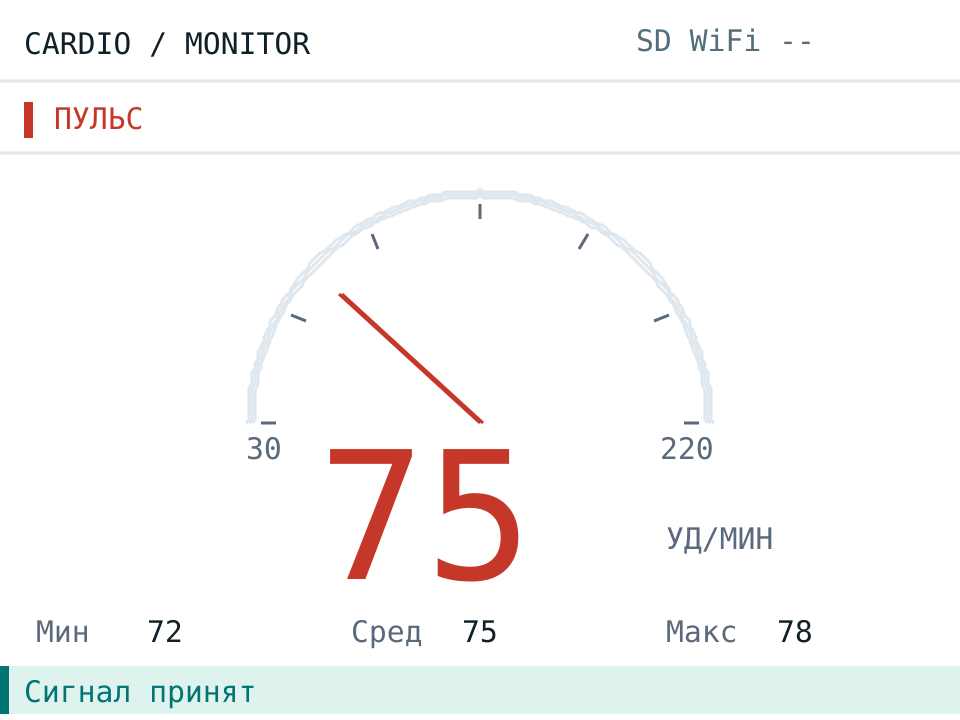
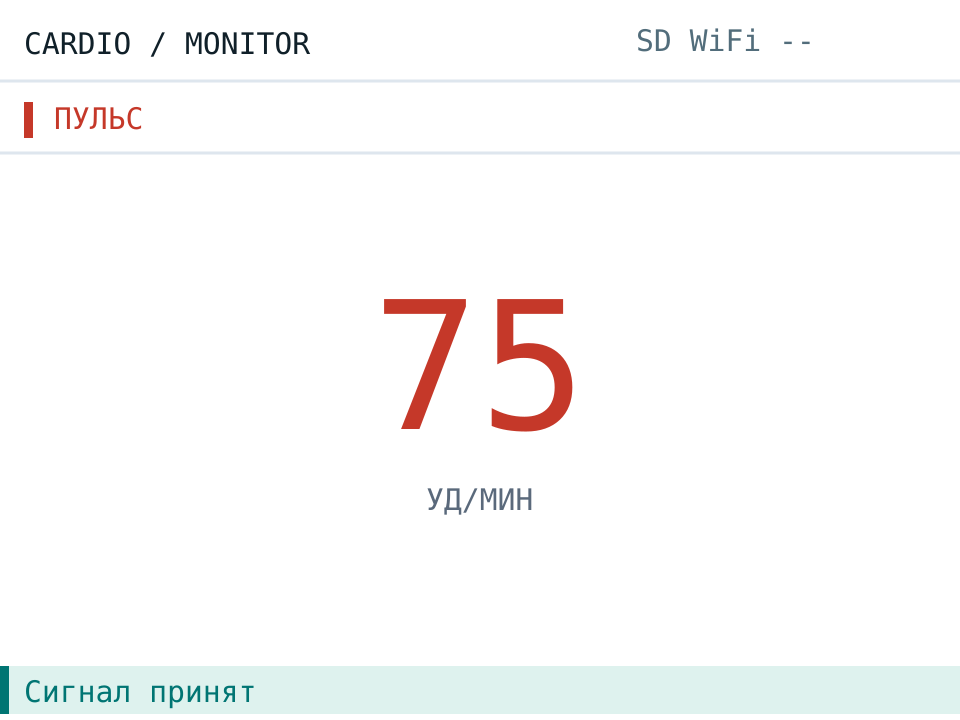
Simplify pulse and oxygen screens to standalone numeric readings

diff --git a/Monitor soft/tools/preview_display.py b/Monitor soft/tools/preview_display.py
@@ -17,7 +17,7 @@ a.output.mkdir(parents=True, exist_ok=True)
 source = (root/'MedicalMonitor'/'MedicalMonitor.ino').read_text()
 names = ['clearDisplay', 'UI', 'ecgGraphTop', 'ecgGraphBottom', 'drawHeader', 'drawRecBadge',
          'drawMonitorNavigation', 'drawMeasurementTabs', 'drawMeasurementFrame',
-         'drawPulseGauge', 'drawOpticalNumber', 'updateDisplayStatistics', 'drawMonitorCaption',
+         'drawOpticalNumber', 'updateDisplayStatistics', 'drawMonitorCaption',
          'drawGraphGrid', 'drawWaveColumn', 'drawMeasurementStatus',
          'eraseEcgPlotColumn', 'renderEcgWave', 'renderECG', 'renderPulseOnly', 'renderSpo2Only']
 functions = []
@@ -104,7 +104,7 @@ struct {bool finger=true,hrValid=true,spo2Valid=true;int beatAvg=75;float spo2=9
 struct {bool initialized=true,quality=true;uint32_t start=0;float bpm=75;}ecgDetector;
 EcgPlotBuffer ecgPlot;
 DisplayStatistics displayPulseStats;
-void drawLargeReading(int value,uint16_t color,int x,int y){tft.setTextSize(6);tft.setTextColor(color);tft.setCursor(x,y);if(value<0)tft.print("--");else tft.print(value);}
+void drawLargeReading(int value,uint16_t color,int x,int y){tft.setTextSize(6);tft.setTextColor(color);tft.setCursor(x+(108-int((value<0?std::string("--"):std::to_string(value)).size())*36)/2,y);if(value<0)tft.print("--");else tft.print(value);}
 void updateHeaderStatus(){tft.setTextSize(1);tft.setTextColor(0x536f);tft.setCursor(212,10);tft.print("SD  WiFi  --");}
 '''
 main = r'''

diff --git a/Monitor soft/docs/light-interface.md b/Monitor soft/docs/light-interface.md
@@ -9,12 +9,11 @@
 Прибор оформлен как компактная панель медицинского монитора: ровный белый фон,
 тонкие разделители, заголовок выбранного измерения вместо ряда вкладок.
 Восстановлено первоначальное главное меню с пятью пунктами. Основные цифры увеличены
-с масштаба 5 до 6; вспомогательная статистика отделена вертикальной линией.
+с масштаба 5 до 6 и расположены по центру.
 На отдельном экране ЭКГ остаётся график высотой 92 пикселя.
-На экранах Пульс и SpO₂ графики убраны: Пульс показывает большой стрелочный
-спидометр и статистику, SpO₂ — крупную сатурацию и маленький спидометр пульса.
-При невалидной ЧСС стрелка отсутствует, число заменяется прочерками.
-Шкала 30–220 служит только для отображения и не обозначает медицинскую норму.
+На экранах Пульс и SpO₂ нет графиков и спидометров. Пульс показывает крупное
+значение ЧСС с подписью «уд/мин». SpO₂ показывает только процент кислорода,
+без дополнительного пульса и подписи «уд/мин». Невалидные значения заменяются прочерками.
 Состояние сигнала занимает одну полосу с цветовым маркером. История, настройки
 и список Wi-Fi используют плоское выделение выбранной строки.
 

diff --git a/Monitor soft/README.md b/Monitor soft/README.md
@@ -154,10 +154,9 @@ OK и Назад никогда не повторяются. В остальны
 При включённом сохранённом параметре записи открытие измерения создаёт новый файл.
 По умолчанию запись включена; её переключатель убран из пользовательского меню. Индикатор REC означает открытый файл.
 
-Пульс показывает крупную ЧСС со стрелочным спидометром и min/среднее/max за сеанс.
-SpO₂ показывает крупный процент кислорода, маленький спидометр пульса и наличие пальца.
-На обоих экранах нет графиков. Шкала пульса 30–220 — только диапазон отображения,
-не границы медицинской нормы; число сохраняет фактическое значение за пределами шкалы. ЭКГ показывает
+Пульс показывает только крупную ЧСС и единицу «уд/мин»; SpO₂ — крупный процент
+кислорода и контакт пальца. Спидометров, графиков и дополнительной ЧСС на SpO₂ нет.
+ ЭКГ показывает
 один канал, предварительную ЧСС и качество сигнала. Статистика занимает фиксированный
 объём RAM и сбрасывается при начале сеанса.
 
